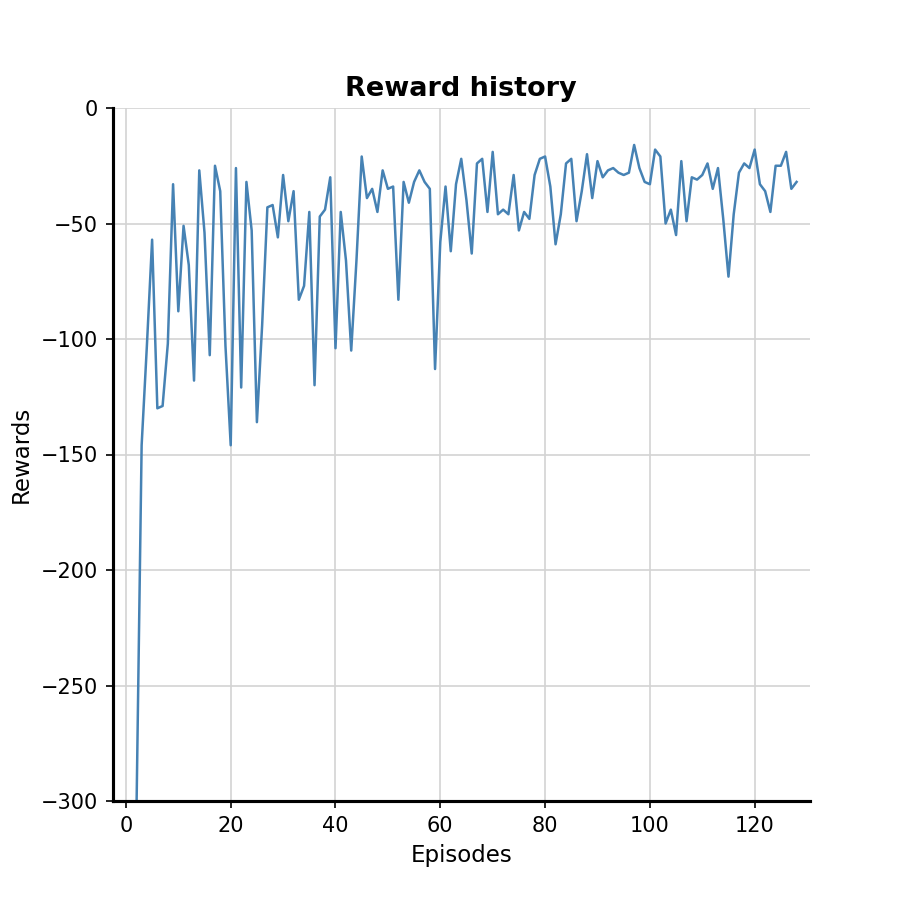
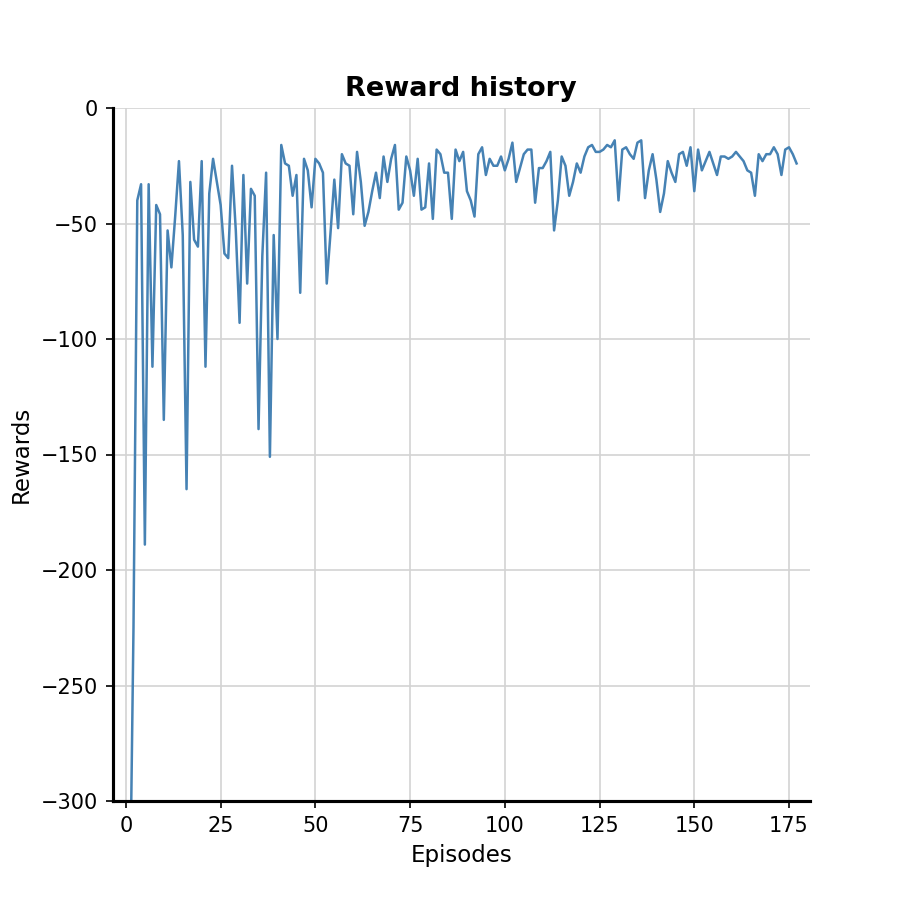
example 6.5 updated

diff --git a/chapter_06_temporal_difference_learning/example_6_5_windy_gridworld.py b/chapter_06_temporal_difference_learning/example_6_5_windy_gridworld.py
@@ -108,7 +108,7 @@ def plt_setup(xlabel: str, ylabel: str, title: str = None):
 
 
 if __name__ == "__main__":
-    epsilon = 0.2
+    epsilon = 0.1
     alpha = 0.5
     total_steps = 20_000
     run_sarsa_windy(
